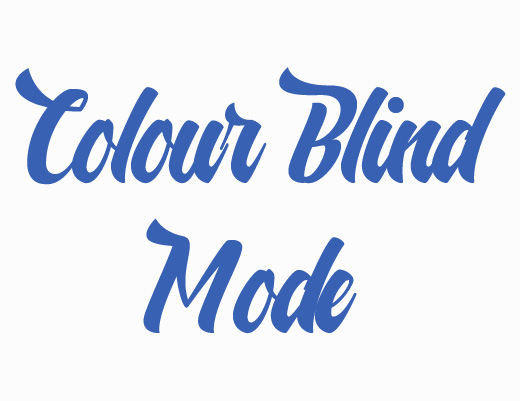
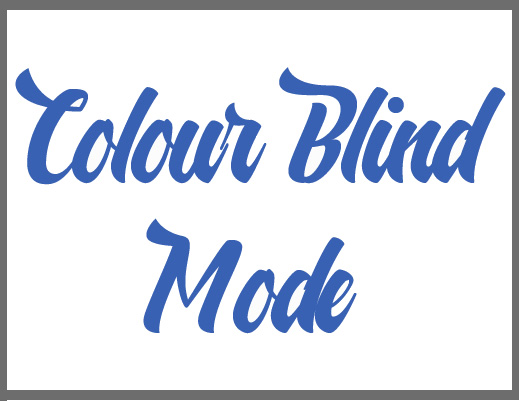
fixed colour blind mode

Changed region(s): [[0.0, 0.0, 1.0, 1.0]]

diff --git a/js/globalvariables.js b/js/globalvariables.js
@@ -209,7 +209,8 @@ function setGlobalVariables() {
         "../img/icons/beatDiamond.png", //24
         "../img/icons/beatHexagon.png", //25
         //Colour Blind Images and Titles
-        "../img/icons/active.png" //26
+        "../img/icons/active.png", //26
+        "../img/background/colourblindmode.jpg" //27
     ];
     images = [];
     for (i = 0; i < preload.length; i++) {
@@ -347,7 +348,7 @@ function setDefaultColorSettings() {
     //Locked Beer Goggles Array
     palette7 = [images[25], images[22], paletteH, false];
     //Colour Blind Palette Array
-    palette8 = [images[26], images[22], rgPalette, false];
+    palette8 = [images[26], images[27], rgPalette, false];
 
     //set default palette
     palette = palette4;
